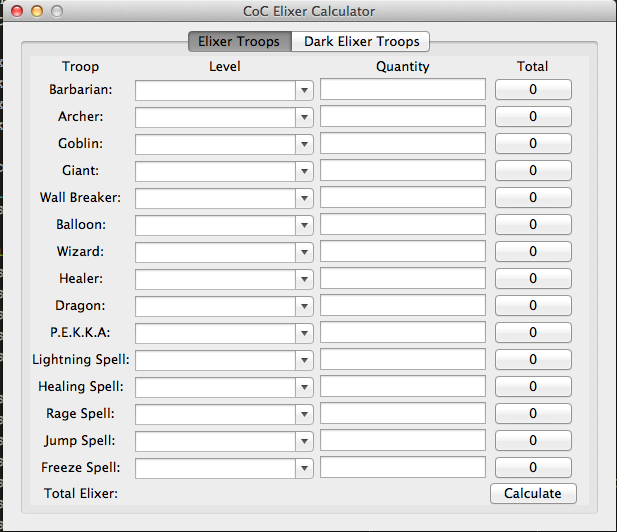
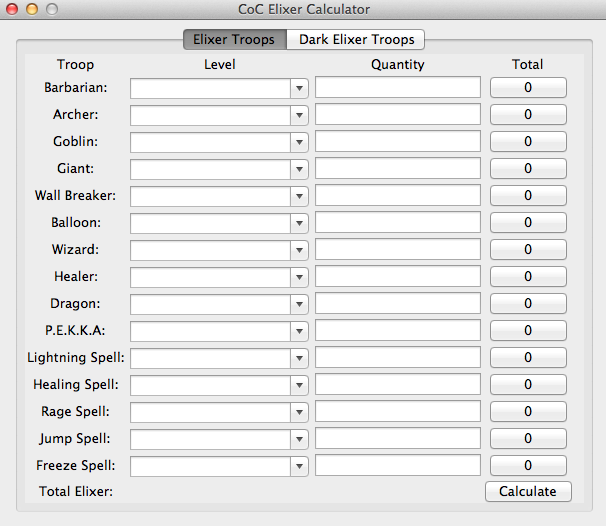
web

Changed region(s): [[0.0, 0.0, 1.0, 1.0], [0.0594, 0.5171, 0.1782, 0.6388], [0.9802, 0.9734, 1.0, 1.0]]

diff --git a/index.html b/index.html
@@ -33,7 +33,7 @@
 <div id="page">
 	<!-- start content -->
 	<div id="content">
-		<iframe width="800" height="430" src="//www.cincopa.com/media-platform/iframe.aspx?fid=AkAAo_L9BAFA" frameborder="0" allowfullscreen scrolling="no"></iframe><noscript><span>myWeb</span><span>Alarm</span><span>Log in page of the alarm app.</span><span>height</span><span> 211</span><span>width</span><span> 281</span><span>originaldate</span><span> 1/1/0001 6:00:00 AM</span><span>While the alarm is running.</span><span>height</span><span> 123</span><span>width</span><span> 344</span><span>originaldate</span><span> 1/1/0001 6:00:00 AM</span><span>After the alarm is dismissed, it will redirect you to a website with your input directions to work or school and the weather of your current location, as well as your todo-list that is synced with google calendar.</span><span>height</span><span> 900</span><span>width</span><span> 1600</span><span>originaldate</span><span> 1/1/0001 6:00:00 AM</span><span>Clash of Clan Elixer calculator</span><span>height</span><span> 532</span><span>width</span><span> 617</span><span>originaldate</span><span> 1/1/0001 6:00:00 AM</span><span>Clash of Clan Dark Elixer calculator.</span><span>height</span><span> 533</span><span>width</span><span> 618</span><span>originaldate</span><span> 1/1/0001 6:00:00 AM</span></noscript>
+		<iframe width="800" height="500" src="//www.cincopa.com/media-platform/iframe.aspx?fid=AkAAo_L9BAFA" frameborder="0" allowfullscreen scrolling="no"></iframe><noscript><span>myWeb</span><span>Log in page of the alarm app.</span><span>height</span><span> 211</span><span>width</span><span> 281</span><span>originaldate</span><span> 1/1/0001 6:00:00 AM</span><span>While the alarm is running.</span><span>height</span><span> 123</span><span>width</span><span> 344</span><span>originaldate</span><span> 1/1/0001 6:00:00 AM</span><span>After the alarm is dismissed, it will redirect you to a website with your input directions to work or school and the weather of your current location, as well as your todo-list that is synced with google calendar.</span><span>height</span><span> 900</span><span>width</span><span> 1600</span><span>originaldate</span><span> 1/1/0001 6:00:00 AM</span><span>Clash of Clan Elixer calculator</span><span>height</span><span> 526</span><span>width</span><span> 606</span><span>originaldate</span><span> 1/1/0001 6:00:00 AM</span><span>Clash of Clan Dark Elixer calculator.</span><span>height</span><span> 526</span><span>width</span><span> 607</span><span>originaldate</span><span> 1/1/0001 6:00:00 AM</span></noscript>
 		<div class="post">
 			<h1 class="title">Welcome! </h1>
 			<div class="entry">
